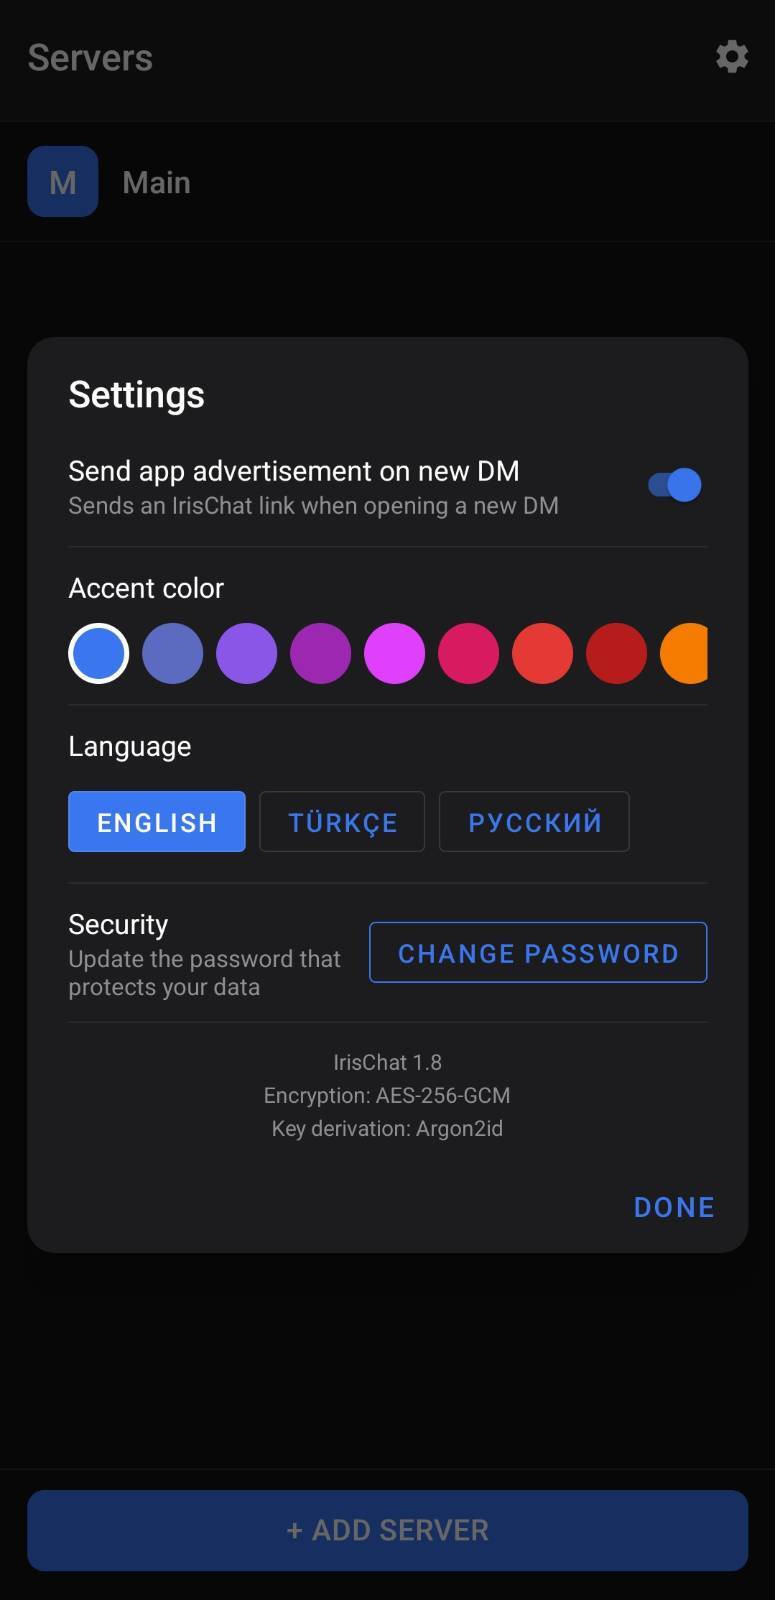
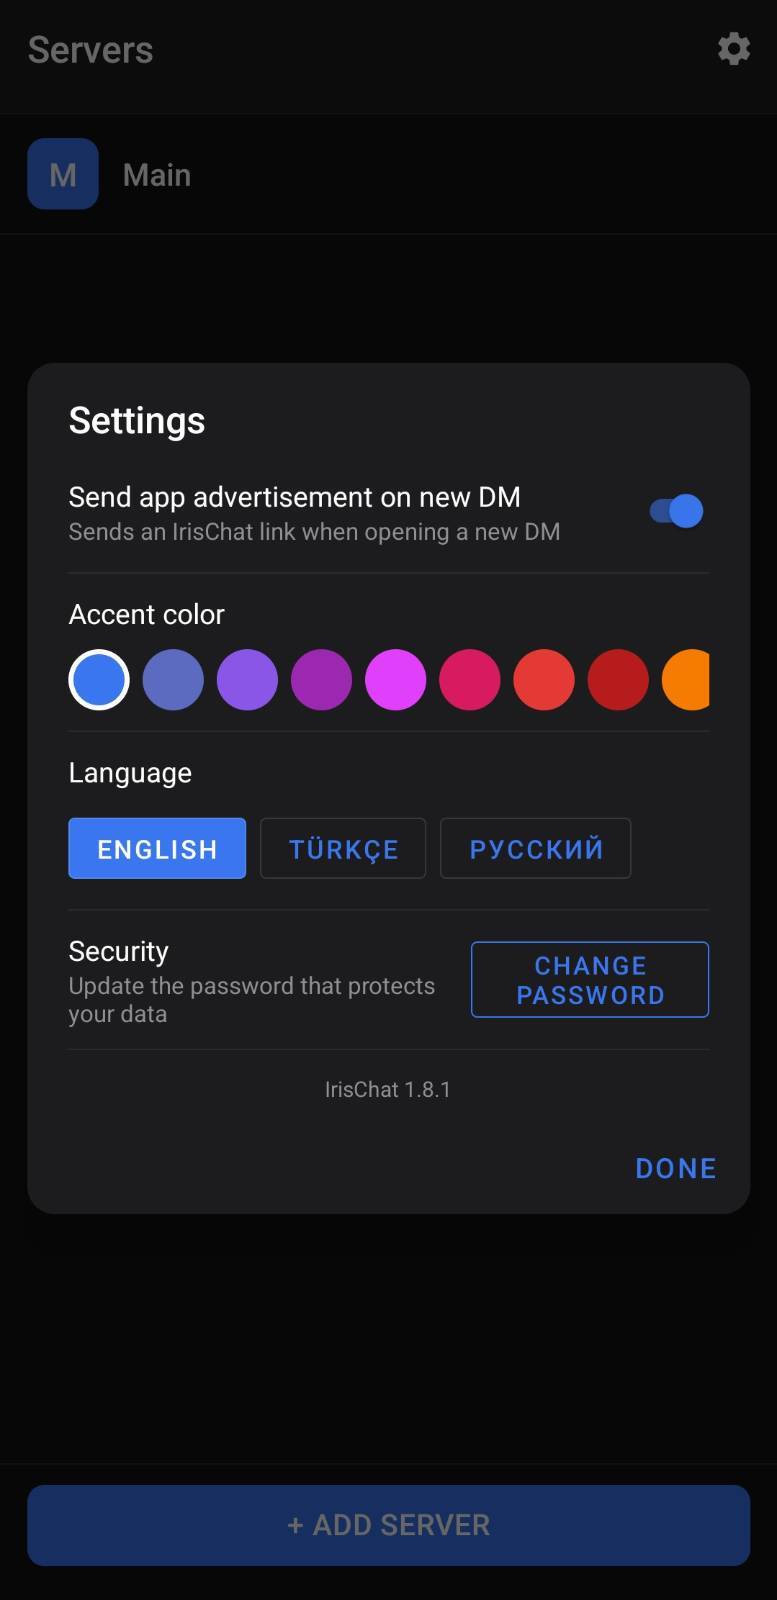
Improve UI

diff --git a/app/src/main/java/com/umut/irischat/ServerSwitcherActivity.java b/app/src/main/java/com/umut/irischat/ServerSwitcherActivity.java
@@ -269,11 +269,7 @@ public class ServerSwitcherActivity extends AppCompatActivity {
         btnChangePassword.setOnClickListener(v -> showChangePasswordDialog());
 
         TextView versionText    = view.findViewById(R.id.settingsVersionText);
-        TextView encryptionText = view.findViewById(R.id.settingsEncryptionText);
-        TextView kdfText        = view.findViewById(R.id.settingsKdfText);
         versionText.setText(getString(R.string.app_version_label, getAppVersionName()));
-        encryptionText.setText(getString(R.string.encryption_label, crypto.getEncryptionDescription()));
-        kdfText.setText(getString(R.string.key_derivation_label, buildKdfSummary()));
 
         AlertDialog settingsDialog = new AlertDialog.Builder(this, R.style.IrisDialog)
                 .setTitle(R.string.settings)
@@ -303,12 +299,6 @@ public class ServerSwitcherActivity extends AppCompatActivity {
         } catch (PackageManager.NameNotFoundException e) {
             return "";
         }
-    }
-
-    private String buildKdfSummary() {
-        return crypto.isLegacyKdf()
-                ? getString(R.string.kdf_legacy_summary)
-                : getString(R.string.kdf_argon2id_summary);
     }
 
     private void showChangePasswordDialog() {
